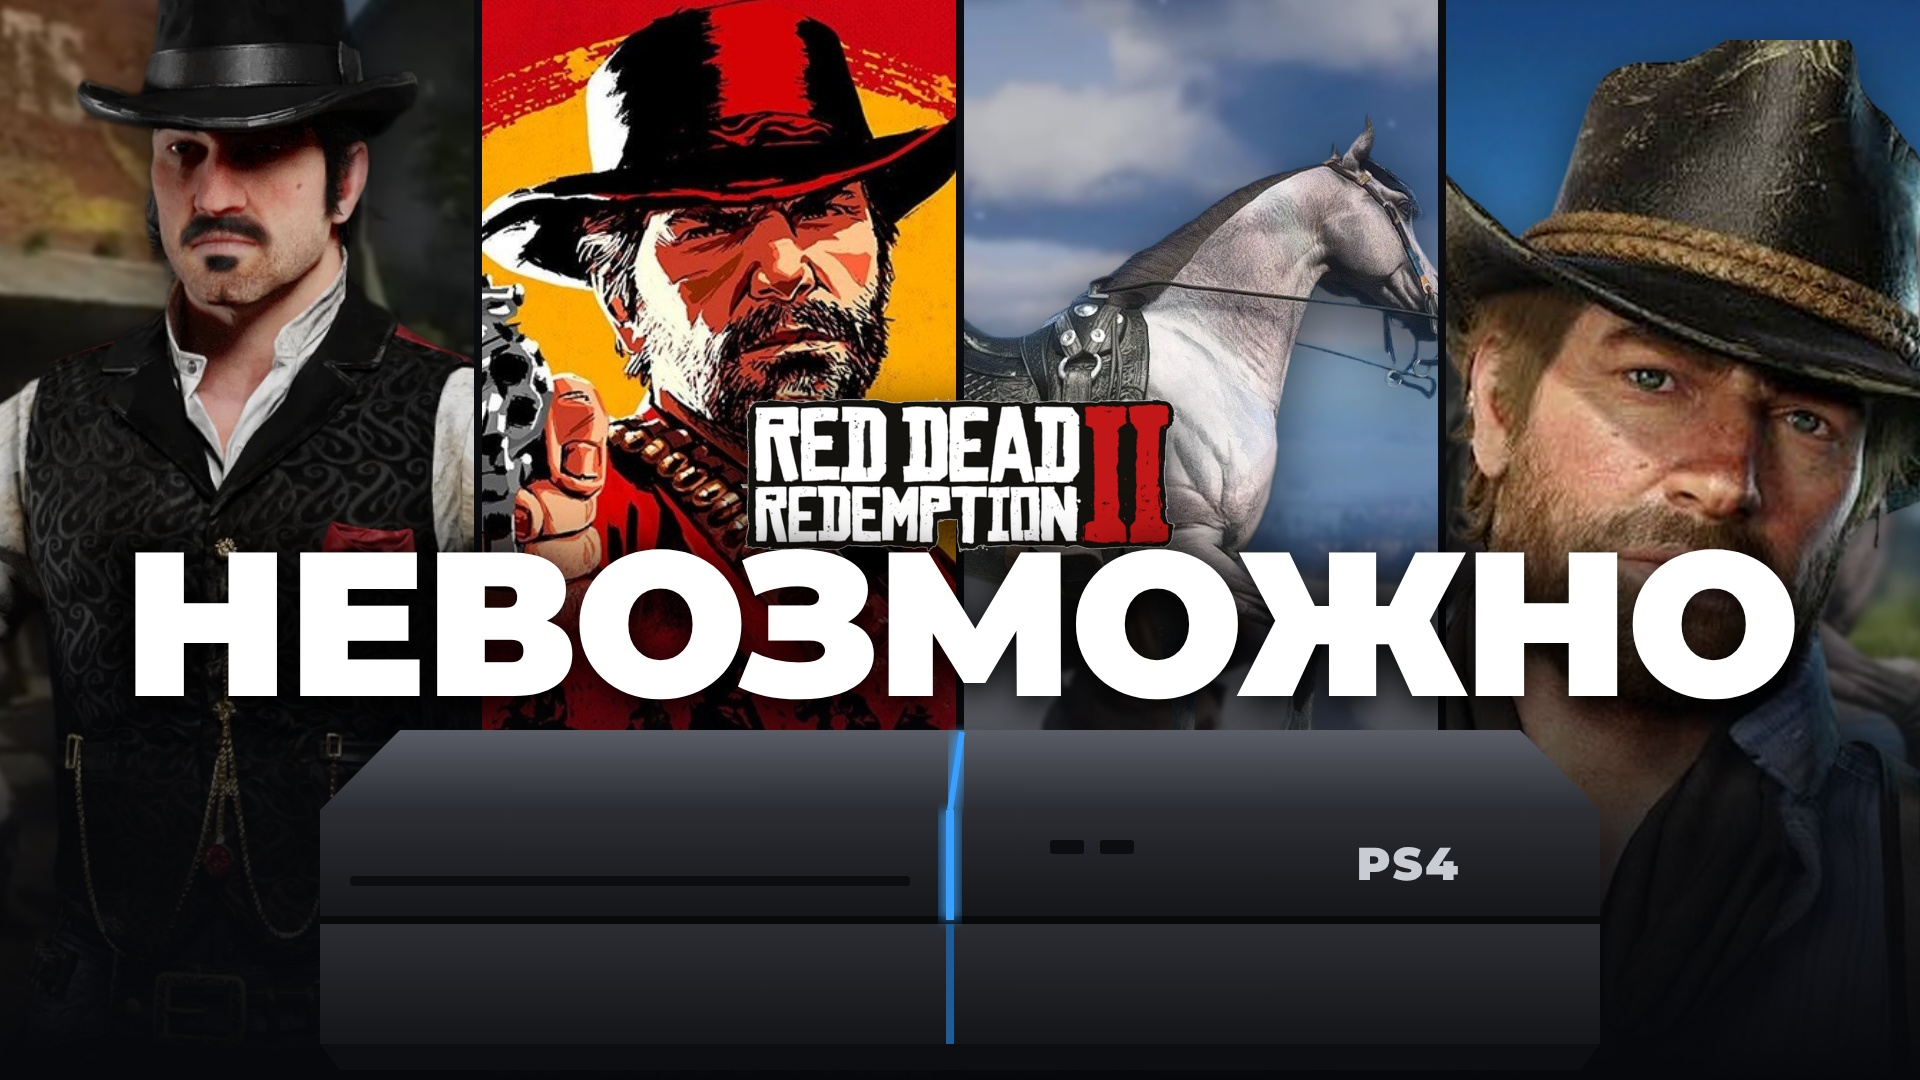
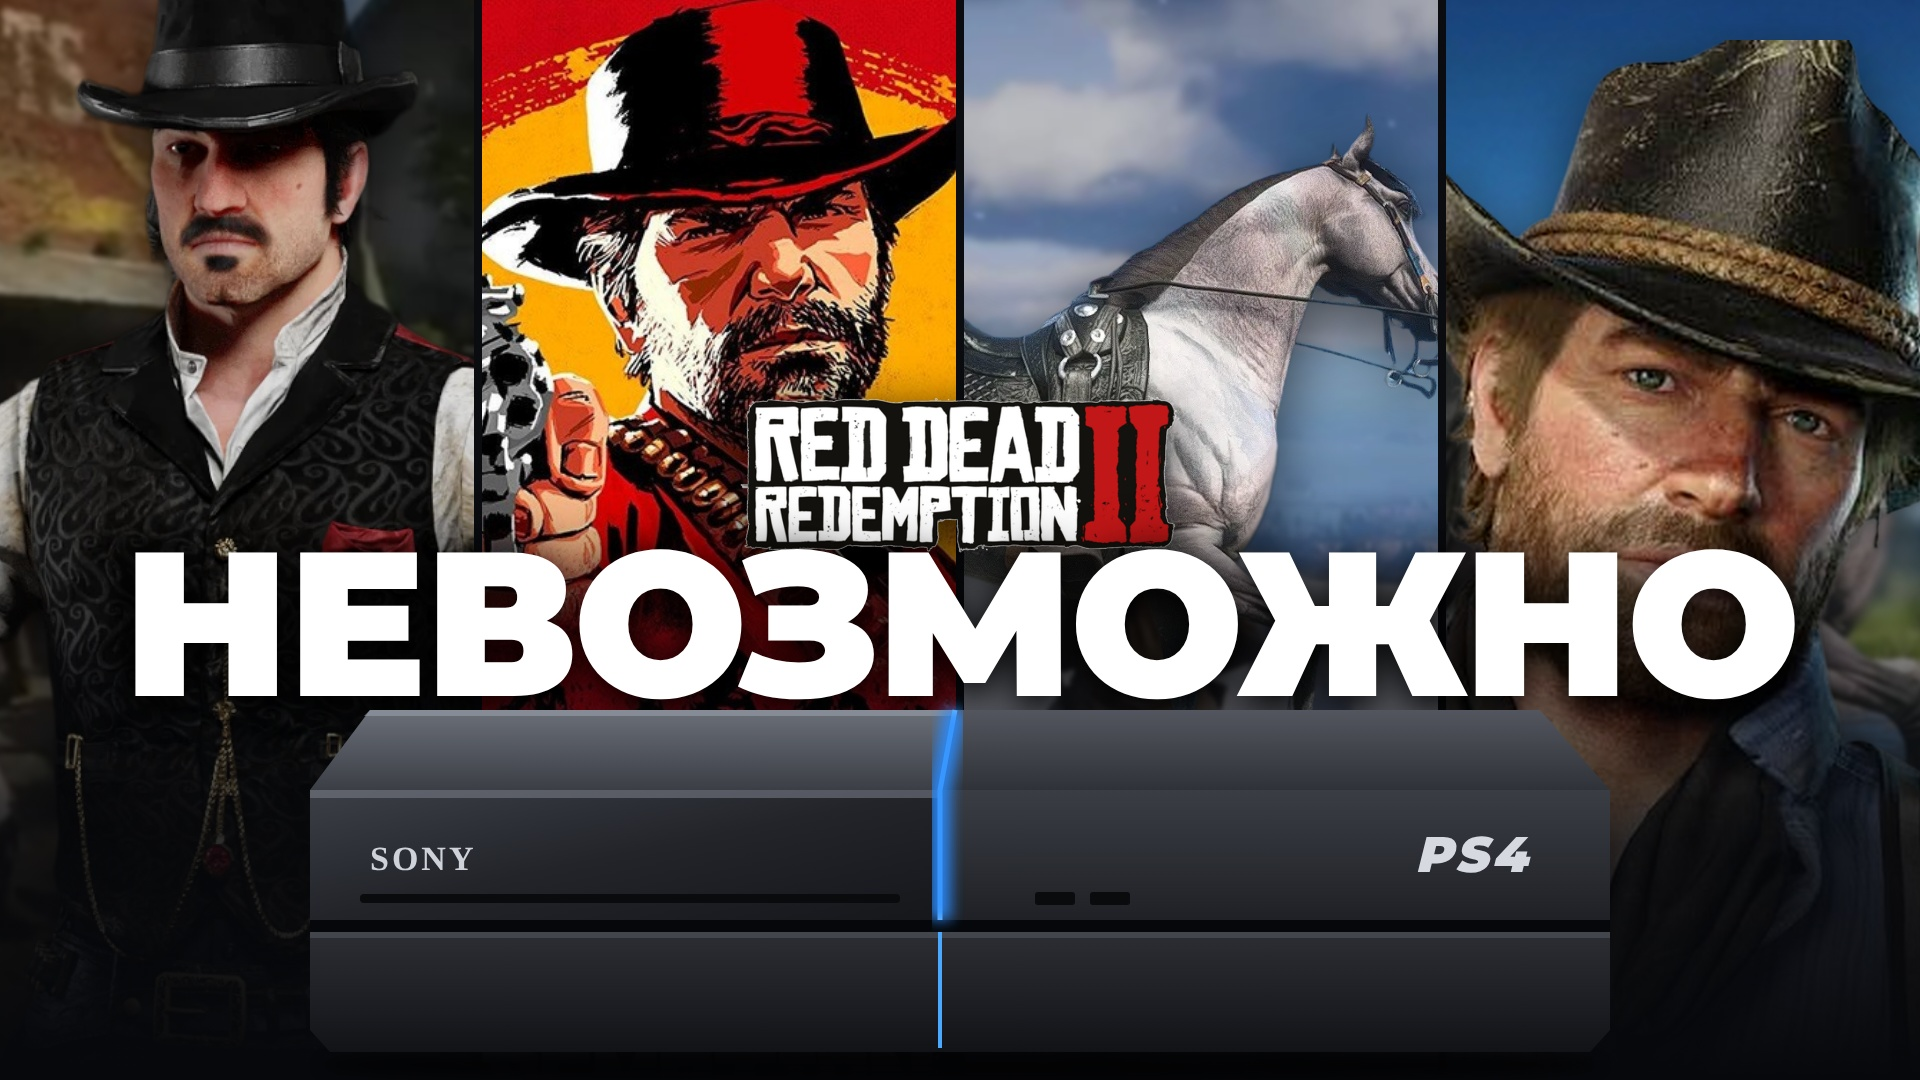
RDR2 thumbnail: more realistic drawn PS4
Claude-Session: https://claude.ai/code/session_01RHFrx85Hg5RpkQEmnVQQfw

diff --git a/rdr2/thumb/thumb2.html b/rdr2/thumb/thumb2.html
@@ -17,21 +17,31 @@ html,body{width:1920px;height:1080px;overflow:hidden;background:#0b0c10;font-fam
 <div class="shade"></div>
 <img class="logo" id="logo" src="/rdr2/assets/rdr2_logo.png">
 <div class="t" id="t">НЕВОЗМОЖНО</div>
-<svg style="position:absolute;left:310px;top:690px" width="1300" height="400" viewBox="0 0 1300 400">
- <defs><linearGradient id="tp" x1="0" y1="0" x2="0" y2="1"><stop offset="0" stop-color="#5a5d66"/><stop offset="1" stop-color="#2a2c32"/></linearGradient>
- <linearGradient id="fr" x1="0" y1="0" x2="0" y2="1"><stop offset="0" stop-color="#2b2d33"/><stop offset="1" stop-color="#141518"/></linearGradient>
- <filter id="gl"><feGaussianBlur stdDeviation="6"/></filter></defs>
- <path d="M90 40 H1210 L1290 120 H10 Z" fill="url(#tp)"/>
- <rect x="10" y="120" width="1280" height="110" fill="url(#fr)"/>
- <rect x="10" y="226" width="1280" height="8" fill="#08090b"/>
- <rect x="10" y="234" width="1280" height="120" fill="url(#fr)"/>
- <path d="M10 354 H1290 L1270 380 H30 Z" fill="#0d0e11"/>
- <rect x="40" y="186" width="560" height="10" rx="4" fill="#0c0d10"/>
- <path d="M652 42 L640 120" stroke="#3aa0ff" stroke-width="6"/><path d="M652 42 L640 120" stroke="#3aa0ff" stroke-width="16" filter="url(#gl)" opacity=".8"/>
- <rect x="636" y="120" width="8" height="110" fill="#3aa0ff"/><rect x="630" y="120" width="20" height="110" fill="#3aa0ff" filter="url(#gl)" opacity=".7"/>
- <rect x="636" y="234" width="8" height="120" fill="#1d5b9a"/>
- <text x="1150" y="190" text-anchor="end" font-family="Mont" font-weight="900" font-size="46" fill="#c9ccd3" letter-spacing="2">PS4</text>
- <rect x="740" y="150" width="34" height="14" rx="3" fill="#0c0d10"/><rect x="790" y="150" width="34" height="14" rx="3" fill="#0c0d10"/>
+<svg style="position:absolute;left:300px;top:680px" width="1320" height="400" viewBox="0 0 1320 400">
+ <defs>
+  <linearGradient id="tpL" x1="0" y1="0" x2="0" y2="1"><stop offset="0" stop-color="#6b6f78"/><stop offset="1" stop-color="#3b3e45"/></linearGradient>
+  <linearGradient id="tpR" x1="0" y1="0" x2="0" y2="1"><stop offset="0" stop-color="#53565e"/><stop offset="1" stop-color="#2f3238"/></linearGradient>
+  <linearGradient id="frL" x1="0" y1="0" x2="1" y2="1"><stop offset="0" stop-color="#3c3f46"/><stop offset=".5" stop-color="#22242a"/><stop offset="1" stop-color="#16171b"/></linearGradient>
+  <linearGradient id="frR" x1="0" y1="0" x2="0" y2="1"><stop offset="0" stop-color="#3a3d44"/><stop offset="1" stop-color="#1f2126"/></linearGradient>
+  <linearGradient id="lo" x1="0" y1="0" x2="0" y2="1"><stop offset="0" stop-color="#2c2e34"/><stop offset="1" stop-color="#121317"/></linearGradient>
+  <filter id="gl" x="-50%" y="-50%" width="200%" height="200%"><feGaussianBlur stdDeviation="7"/></filter>
+ </defs>
+ <ellipse cx="660" cy="385" rx="640" ry="18" fill="#000" opacity=".6" filter="url(#gl)"/>
+ <path d="M70 30 H655 L640 110 H10 Z" fill="url(#tpL)"/>
+ <path d="M655 30 H1240 L1310 110 H640 Z" fill="url(#tpR)"/>
+ <path d="M70 30 H655 L652 36 H64 Z" fill="#9aa0aa" opacity=".6"/>
+ <path d="M10 110 H640 V240 H10 Z" fill="url(#frL)"/>
+ <path d="M640 110 H1310 V240 H640 Z" fill="url(#frR)"/>
+ <path d="M10 110 H640 V118 H10 Z" fill="#7d828c" opacity=".55"/>
+ <text x="70" y="190" font-family="Georgia,serif" font-weight="700" font-size="34" fill="#cfd2d8" letter-spacing="3">SONY</text>
+ <rect x="60" y="214" width="540" height="9" rx="4" fill="#0a0b0d"/>
+ <text x="1230" y="192" text-anchor="end" font-family="Mont" font-weight="900" font-size="50" fill="#d6d9df" letter-spacing="3" font-style="italic">PS4</text>
+ <rect x="735" y="212" width="40" height="13" rx="3" fill="#0a0b0d"/><rect x="790" y="212" width="40" height="13" rx="3" fill="#0a0b0d"/>
+ <rect x="10" y="240" width="1300" height="12" fill="#06070a"/>
+ <path d="M10 252 H1310 V350 L1290 372 H30 L10 350 Z" fill="url(#lo)"/>
+ <path d="M10 252 H1310 V258 H10 Z" fill="#5a5e66" opacity=".5"/>
+ <g><path d="M655 30 L640 110 V240" stroke="#7cc4ff" stroke-width="5" fill="none"/><path d="M655 30 L640 110 V240" stroke="#2b8cff" stroke-width="22" fill="none" filter="url(#gl)" opacity=".9"/>
+ <path d="M640 252 V368" stroke="#4aa8ff" stroke-width="4"/><path d="M640 252 V368" stroke="#2b8cff" stroke-width="16" filter="url(#gl)" opacity=".7"/></g>
 </svg>
 <script>const q=new URLSearchParams(location.search);if(q.get('t'))document.getElementById('t').innerHTML=q.get('t');if(q.get('nologo'))document.getElementById('logo').style.display='none';</script>
 </body></html>
